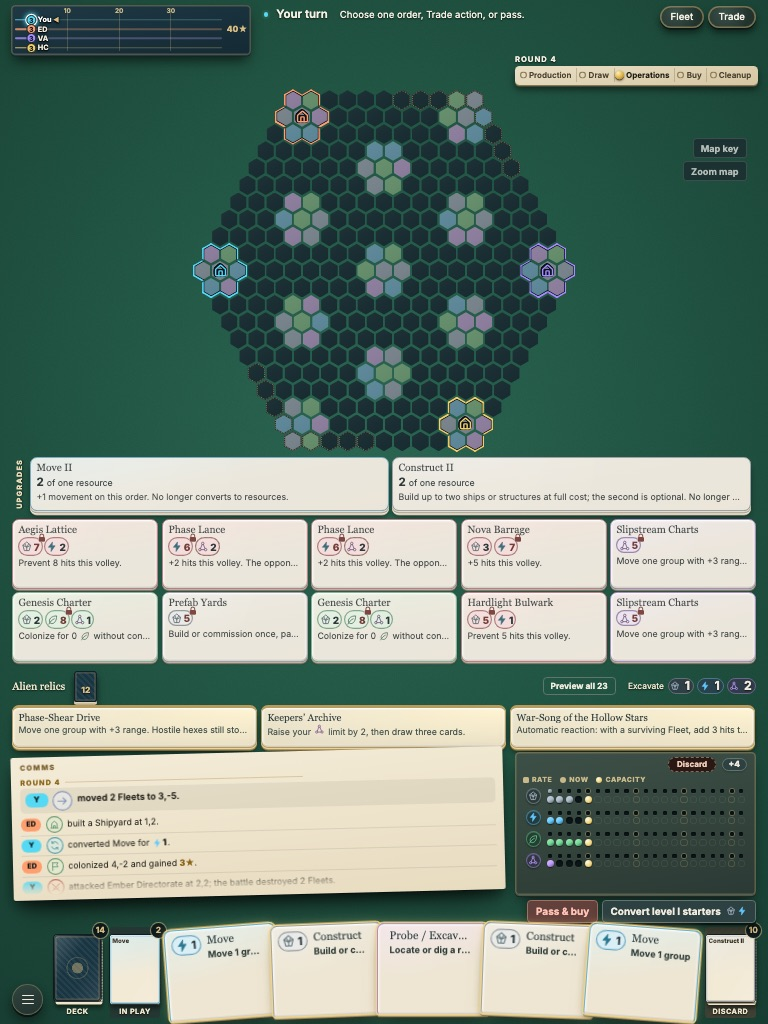
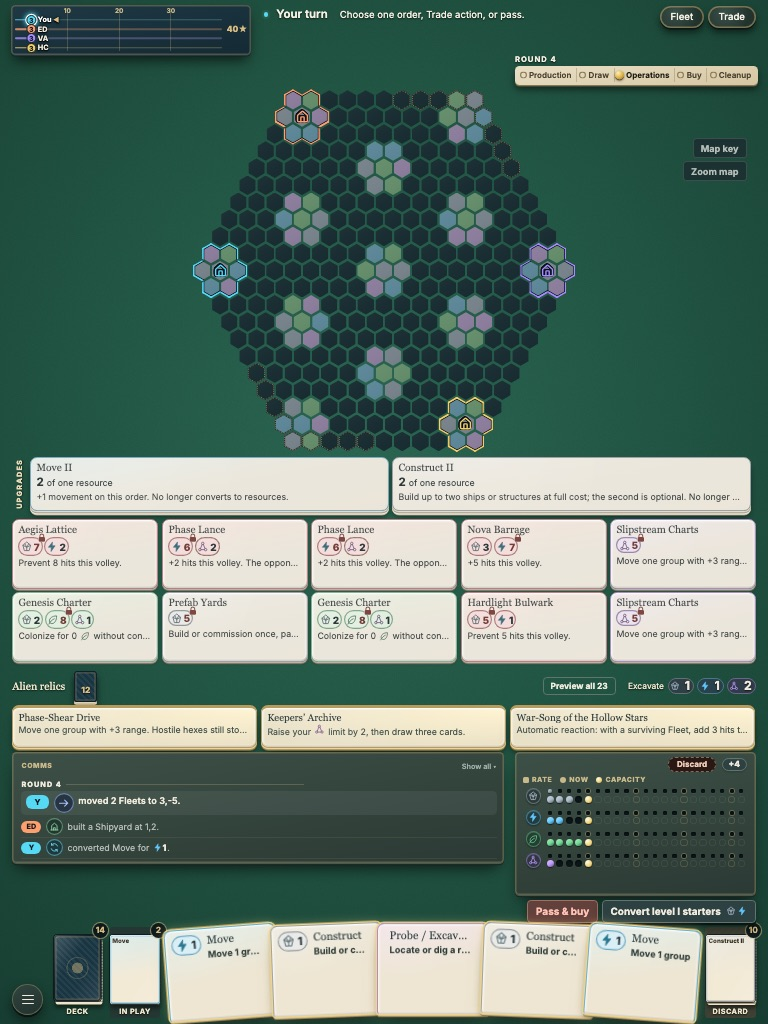
Comms log is a small card of the latest three entries, printed like the player mat; selecting it opens the whole log in place

Changed region(s): [[0.0, 0.7188, 0.6562, 0.9062]]

diff --git a/prototypes/galactic-reach/rulebook.html b/prototypes/galactic-reach/rulebook.html
@@ -123,7 +123,7 @@
 
       <section id="movement">
         <h2>05 / Exploration &amp; movement</h2>
-        <p id="shared-board">Read shared table information around the board: on a desktop window, the whole window is one table, scaled as a whole to fit; the standings are the race to the Prestige goal, a small printed track by the map’s top-left corner with one lane per faction and its marker at its current score (the acting faction’s marker glows, with an arrow; point at or focus a marker for an overview of that faction’s Prestige sources, colonies, cards bought and fleet power, or select it for the breakdown; on a phone the track is the <strong>Table</strong> drawer); the comms feed lies as a sheet below it (each entry shows who acted, a symbol for the kind of event and its resource and Prestige amounts; point at an entry for the full sentence); the map itself is as large as the window allows; and to its right are the turn prompt and the round’s phases, with <strong>Fleet</strong> and <strong>Trade</strong>, then the supply, all visible together: the <strong>Upgrades</strong> tray (with <strong>Trash a card</strong> beside it during Buy), the ten market cards and the face-up alien relics. <strong>Fleet</strong> opens over the supply. The game’s title, rules, card gallery, new game, Undo and playtest notes open from the menu button in the bottom-left corner. The market shows its cards as compact card tops (point at one to read it in full; choose it to buy), and cards you can buy now are outlined in gold. <strong>Trade</strong> opens the trade channel in its own window. Card frames take the colour of the resource a card works with (gold for capacity, Buy and Prestige cards, red for military and attack cards); the map key shows them. Select a Prestige marker to inspect its breakdown; the scoring reference is in <a href="#victory">Victory</a>. On a narrow screen, these panels reflow inside the board frame; scroll the map to reach other hexes. The recent-action feed can say that Probe was used, but never gives its private relic location. Your hand, card piles, reserves, and full game-report download stay on your player mat. The report can include private information.</p>
+        <p id="shared-board">Read shared table information around the board: on a desktop window, the whole window is one table, scaled as a whole to fit; the standings are the race to the Prestige goal, a small printed track by the map’s top-left corner with one lane per faction and its marker at its current score (the acting faction’s marker glows, with an arrow; point at or focus a marker for an overview of that faction’s Prestige sources, colonies, cards bought and fleet power, or select it for the breakdown; on a phone the track is the <strong>Table</strong> drawer); the comms feed lies below it as a small card of the latest three entries, printed like your player mat; select it to open the whole feed, and again (or press Escape) to close it (each entry shows who acted, a symbol for the kind of event and its resource and Prestige amounts; point at an entry for the full sentence); the map itself is as large as the window allows; and to its right are the turn prompt and the round’s phases, with <strong>Fleet</strong> and <strong>Trade</strong>, then the supply, all visible together: the <strong>Upgrades</strong> tray (with <strong>Trash a card</strong> beside it during Buy), the ten market cards and the face-up alien relics. <strong>Fleet</strong> opens over the supply. The game’s title, rules, card gallery, new game, Undo and playtest notes open from the menu button in the bottom-left corner. The market shows its cards as compact card tops (point at one to read it in full; choose it to buy), and cards you can buy now are outlined in gold. <strong>Trade</strong> opens the trade channel in its own window. Card frames take the colour of the resource a card works with (gold for capacity, Buy and Prestige cards, red for military and attack cards); the map key shows them. Select a Prestige marker to inspect its breakdown; the scoring reference is in <a href="#victory">Victory</a>. On a narrow screen, these panels reflow inside the board frame; scroll the map to reach other hexes. The recent-action feed can say that Probe was used, but never gives its private relic location. Your hand, card piles, reserves, and full game-report download stay on your player mat. The report can include private information.</p>
         <p id="keyboard-controls">Use <strong>Tab</strong> to reach controls and <strong>Enter</strong> or <strong>Space</strong> to activate them. The first link skips straight to player controls. Use arrow keys, Home, or End to switch the player-control tabs. Escape closes inspectors and reference windows. Combat and excess-resource choices stay open until you make the required choice.</p>
         <div class="book-legend" role="group" aria-label="Map symbols"><span><b class="relic-mark" aria-hidden="true">◈</b> Located relic</span><span><b class="relic-mark" aria-hidden="true">●</b> Gray moon · no production</span></div>
         <p>World terrain is always public, but seeing a world does not locate its relic. Any Settler, Fleet, or Explorer ending a move surveys that world or moon, revealing its terrain to everyone. Arrival never locates a relic. Use <strong>Probe</strong> from your Explorer’s current hex to locate the nearest remaining relic you have not already discovered, even on an unvisited world or hidden moon. Known sites are skipped. When you locate the last unknown site, a message tells you that all remaining relics are discovered. If all remaining sites are already known to you, Probe warns you without spending the card or your action. You do not need to reach that world or moon first. A signal on an undiscovered moon reveals the relic’s hex to you without revealing the moon’s terrain. Other players must locate it for themselves. Existing discovery relic cards keep their printed effects. Probe and Chorus signals stay private after later terrain surveys. Only an effect that explicitly reveals relics to everyone makes them public. All players’ units remain visible, including in empty space. Unit markers alone do not reveal a hidden moon or relic.</p>

diff --git a/prototypes/galactic-reach/styles.css b/prototypes/galactic-reach/styles.css
@@ -2001,20 +2001,13 @@ summary:focus-visible, input:focus-visible, select:focus-visible { outline: 2px 
       0 1px 0 #3b5560, 0 2px 0 #2a3f47, 0 3px 0 #1d2e35, 0 4px 0 #142227, 0 5px 0 #0e181c, 0 18px 30px -6px #000c, 0 34px 60px -20px #000a !important; }
   /* Standings: faction tiles (thick card in each faction's colour). */
 
-  /* The comms feed: one paper sheet, slightly turned, lying left of the board. */
-  .log-panel { border: 0 !important; border-radius: 3px !important; backdrop-filter: none !important;
-    background: linear-gradient(175deg, #f4ecd8, #e8dcc0) !important; transform: rotate(-1.4deg) !important;
-    box-shadow: 0 1px 1px #0005, 0 10px 18px -4px #000a, 0 24px 40px -18px #0009 !important; }
-  .log-panel::before { color: #7b6331 !important; }
-  .game-log { color: #2c2a22 !important; scrollbar-color: #8a7a5566 transparent !important; }
-  .game-log li { border-bottom-color: #2c2a221a !important; }
-  .game-log .log-latest { color: #15140f !important; background: #2c2a2212 !important; }
-  .game-log .log-round { color: #8a6416 !important; }
-  .game-log .log-round::after { background: #8a641640 !important; }
-  .game-log .log-res b, .game-log .log-text b { color: #15140f !important; }
-  .game-log .log-prestige { color: #8a6416 !important; }
-  .game-log .log-icon { background: color-mix(in srgb, var(--kind) 18%, #f4ecd8) !important; box-shadow: inset 0 0 0 1.5px color-mix(in srgb, var(--kind) 70%, #3a3020) !important; color: color-mix(in srgb, var(--kind) 70%, #241d10) !important; }
-  .game-log .log-who.log-table { background: #d9cba6 !important; color: #6b5420 !important; }
+  /* The comms log: a small card printed like the player mat. */
+  .log-panel { border: 0 !important; border-radius: 6px !important; backdrop-filter: none !important; transform: none !important;
+    background: linear-gradient(170deg, #3d5047, #2b3a34) !important;
+    box-shadow: inset 0 0 0 2px #c2a76b55, 0 1px 0 #55675f, 0 2px 0 #24312c, 0 3px 0 #18221f, 0 12px 20px -6px #000b !important; }
+  .log-panel::before { content: none !important; }
+  .game-log li { border-bottom-color: #d9bd8018; }
+  .game-log .log-latest { background: #ffffff10; }
   /* The bank: a tray with a compartment of cubes for each resource. */
   .resource-tools { border: 0 !important; border-radius: 12px !important;
     background: linear-gradient(170deg, #4a3a28, #33281b) !important;
@@ -2441,3 +2434,20 @@ html { -webkit-text-size-adjust: 100%; text-size-adjust: 100%; }
 #resource-grid .mat-pips i.five.full { box-shadow: 0 1px 1px #000a, 0 0 0 1px #f6e7b0b0; }
 /* The fence when the stock has gone past it: ringed in red. */
 #resource-grid .mat-pips.now i.cap.full { box-shadow: 0 0 0 2px var(--red); }
+
+/* ==== The comms log on the table: a small card of the latest three entries, printed like the
+   player mat; selecting it opens the whole log in place. Phones show the whole log in the Comms
+   drawer. ==== */
+.log-toggle { display: none; }
+@media (min-width: 600px) and (min-height: 600px) {
+  .log-toggle { display: flex; align-items: center; justify-content: space-between; gap: 8px; width: 100%; min-height: 22px; margin: 0 0 3px; padding: 0 2px; border: 0; background: none; color: #c9b98a; font-family: inherit; font-size: 9px; font-weight: 800; line-height: 1; letter-spacing: .08em; text-transform: uppercase; cursor: pointer; }
+  .log-toggle small { color: #9fb0a8; font-size: 9.5px; font-weight: 600; letter-spacing: 0; text-transform: none; }
+  .log-toggle small::after { content: ' ▾'; }
+  .log-panel.open .log-toggle small::after { content: ' ▴'; }
+  .log-toggle:focus-visible { outline: 2px solid var(--cyan); outline-offset: 1px; border-radius: 4px; }
+  .log-panel:not(.open) { align-self: start !important; cursor: pointer; }
+  .log-panel:not(.open) .game-log > :not(.log-recent) { display: none; }
+  .log-panel:not(.open) .game-log { overflow: hidden; -webkit-mask-image: none; mask-image: none; }
+  .log-panel.open { z-index: 30 !important; }
+  .log-panel.open .game-log .log-text { display: block; -webkit-line-clamp: none; line-clamp: none; overflow: visible; }
+}

diff --git a/prototypes/galactic-reach/app.js b/prototypes/galactic-reach/app.js
@@ -3905,16 +3905,19 @@ function createGalacticReach(options = {}) {
       .replace(/(\d+) (?:permanent )?Prestige/g, (_, n) => `<span class="log-prestige">${n}★</span>`)
       .replace(/(\d+) (Matter|Energy|Biomass|Data)\b/g, (_, n, name) => `<span class="log-res ${LOG_RESOURCE[name]}">${resourceDot(LOG_RESOURCE[name])}<b>${n}</b></span>`);
   }
+  // On the table the log is a small card of the latest LOG_RECENT entries until it is opened.
+  const LOG_RECENT = 3;
   function renderLog() {
     const parts = [];
     let lastRound = null;
     state.log.slice(0,18).forEach((item,index) => {
       const match = /^R(\d+) · ([\s\S]*)$/.exec(item), round = match ? match[1] : null, text = match ? match[2] : item;
-      if (round && round !== lastRound) { parts.push(`<li class="log-round" aria-hidden="true"><span>Round ${round}</span></li>`); lastRound = round; }
+      const recent = index < LOG_RECENT ? ' log-recent' : '';
+      if (round && round !== lastRound) { parts.push(`<li class="log-round${recent}" aria-hidden="true"><span>Round ${round}</span></li>`); lastRound = round; }
       const player = state.players.find(candidate => text.startsWith(candidate.name) && !/^[\p{L}\p{N}]/u.test(text.slice(candidate.name.length)));
       const [kind] = LOG_KINDS.find(([,pattern]) => pattern.test(text)) || ['event'];
       const who = player ? `<span class="log-who" style="--player:${player.color}">${esc(player.name.split(/\s+/).filter(Boolean).map(word => word[0]).join('').slice(0,3).toUpperCase())}</span>` : '<span class="log-who log-table">✦</span>';
-      parts.push(`<li class="log-entry log-kind-${kind}${index===0?' log-latest':''}"><span class="sr-only">${esc(item)}</span><span class="log-line" aria-hidden="true">${who}<span class="log-icon">${logIcon(kind)}</span><span class="log-text">${logVisual(player ? text.slice(player.name.length).trimStart() : text)}</span></span></li>`);
+      parts.push(`<li class="log-entry log-kind-${kind}${index===0?' log-latest':''}${recent}"><span class="sr-only">${esc(item)}</span><span class="log-line" aria-hidden="true">${who}<span class="log-icon">${logIcon(kind)}</span><span class="log-text">${logVisual(player ? text.slice(player.name.length).trimStart() : text)}</span></span></li>`);
     });
     $('#game-log').innerHTML = parts.join('');
   }
@@ -4579,6 +4582,19 @@ function createGalacticReach(options = {}) {
     document.body.dataset.drawer = name || '';
     $$('.phone-drawers [data-drawer]').forEach(button => button.setAttribute('aria-pressed', String(button.dataset.drawer === name)));
   }
+  function setupLogCard() {
+    const panel = $('.log-panel'), toggle = $('#log-toggle');
+    if (!panel?.addEventListener || !toggle?.addEventListener || typeof document === 'undefined') return;
+    const show = open => {
+      panel.classList.toggle('open', open);
+      toggle.setAttribute('aria-expanded', String(open));
+      toggle.querySelector('small').textContent = open ? 'Show less' : 'Show all';
+    };
+    toggle.addEventListener('click', event => { event.stopPropagation(); show(!panel.classList.contains('open')); });
+    panel.addEventListener('click', () => { if (!panel.classList.contains('open')) show(true); });
+    document.addEventListener('click', event => { if (panel.classList.contains('open') && !panel.contains(event.target)) show(false); });
+    document.addEventListener('keydown', event => { if (event.key === 'Escape' && panel.classList.contains('open')) { show(false); toggle.focus(); } });
+  }
   function setupPhoneCardSheet() {
     const row = $('#hand-row');
     if (!row?.addEventListener || typeof document === 'undefined' || !document.createElement || typeof document.body?.append !== 'function') return;
@@ -4723,6 +4739,7 @@ function createGalacticReach(options = {}) {
     $('#discard-resource-amount').addEventListener('input',renderResourceTools);
     setupMatTrades();
     setupPhoneCardSheet();
+    setupLogCard();
     $('#bank-trade-form').addEventListener('submit',event => {
       event.preventDefault();
       bankTrade(ME,bankSelection.give,bankSelection.get);

diff --git a/prototypes/galactic-reach/index.html b/prototypes/galactic-reach/index.html
@@ -110,6 +110,7 @@
           <div class="panel-heading">
             <div><div class="eyebrow">COMMS FEED</div><h2>Game log</h2></div>
           </div>
+          <button type="button" class="log-toggle" id="log-toggle" aria-expanded="false" aria-controls="game-log"><span>Comms</span><small>Show all</small></button>
           <ol id="game-log" tabindex="0" aria-label="Comms feed" class="game-log" aria-live="polite"></ol>
         </section>
         </div>

diff --git a/changes/gr-no-scroll-ui-u1.md b/changes/gr-no-scroll-ui-u1.md
@@ -3,4 +3,4 @@ compat: safe
 title: A real table that fits your window
 pr: 53
 ---
-On a desktop window the game no longer scrolls: the whole window is one table, scaled as a whole to fit. The map is as large as the window allows. By its top-left corner a small printed track races every faction to the Prestige goal (the acting faction's marker glows; point at a marker for that faction's overview, select it for the breakdown), with the comms sheet below it. The turn and round and the whole supply at once (an Upgrades tray, the market and the alien relics) lie to the right, and your seat runs along the bottom: Deck and In play, your hand, a player mat of pips for production, stock and capacity, and Discard with the turn's buttons. Drag 4 of one resource onto another on your mat to trade with the bank ([Player mat](rulebook.html#player-mat)). Cards look like printed card stock in a slight fan; point at one to read it whole, drag it onto a lit hex to play it or onto your mat to convert it. Market prices sit in each card's corner with a padlock on any resource above your limit, cards you can't buy yet are shaded with the reason ([Buy](rulebook.html#buy)), and held planets are ringed and buildings drawn in their owner's colour ([Reading ownership](rulebook.html#ownership-colours)). iPads get the same table, and phones a full-screen map with the hand, supply, mat, comms and track in drawers.
+On a desktop window the game no longer scrolls: the whole window is one table, scaled as a whole to fit. The map is as large as the window allows. By its top-left corner a small printed track races every faction to the Prestige goal (the acting faction's marker glows; point at a marker for that faction's overview, select it for the breakdown), with a small comms card below it that opens into the whole log. The turn and round and the whole supply at once (an Upgrades tray, the market and the alien relics) lie to the right, and your seat runs along the bottom: Deck and In play, your hand, a player mat of pips (no numbers) for production, stock and a gold capacity fence, and Discard with the turn's buttons. Drag 4 of one resource onto another on your mat to trade with the bank ([Player mat](rulebook.html#player-mat)). Cards look like printed card stock in a slight fan; point at one to read it whole, drag it onto a lit hex to play it or onto your mat to convert it. Market prices sit in each card's corner with a padlock on any resource above your limit, cards you can't buy yet are shaded with the reason ([Buy](rulebook.html#buy)), and held planets are ringed and buildings drawn in their owner's colour ([Reading ownership](rulebook.html#ownership-colours)). iPads get the same table, and phones a full-screen map with the hand, supply, mat, comms and track in drawers.
